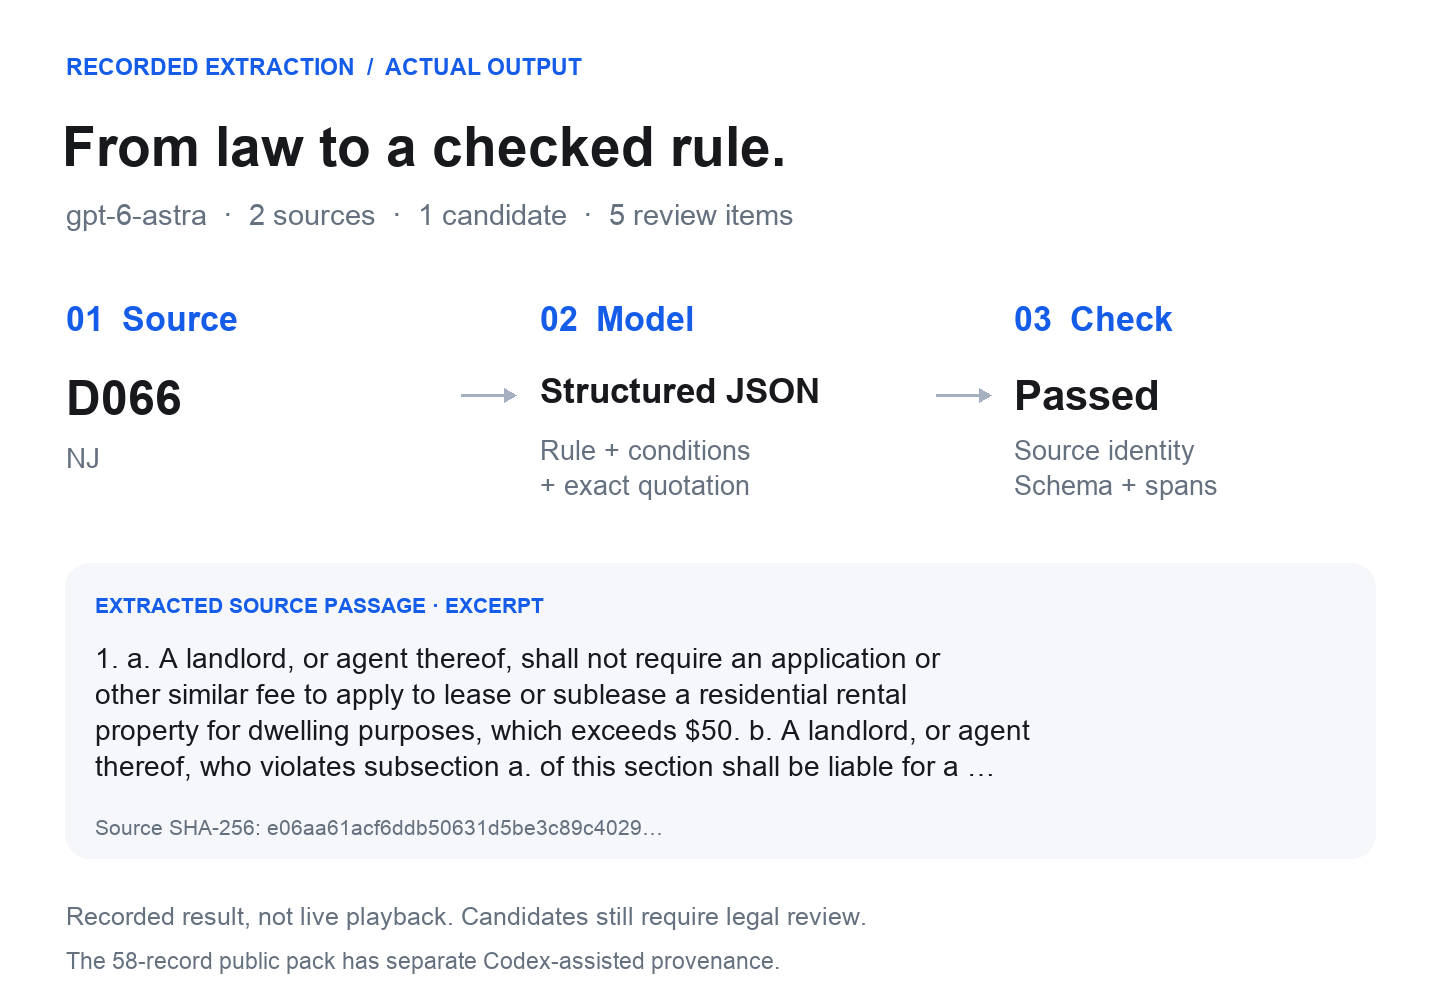
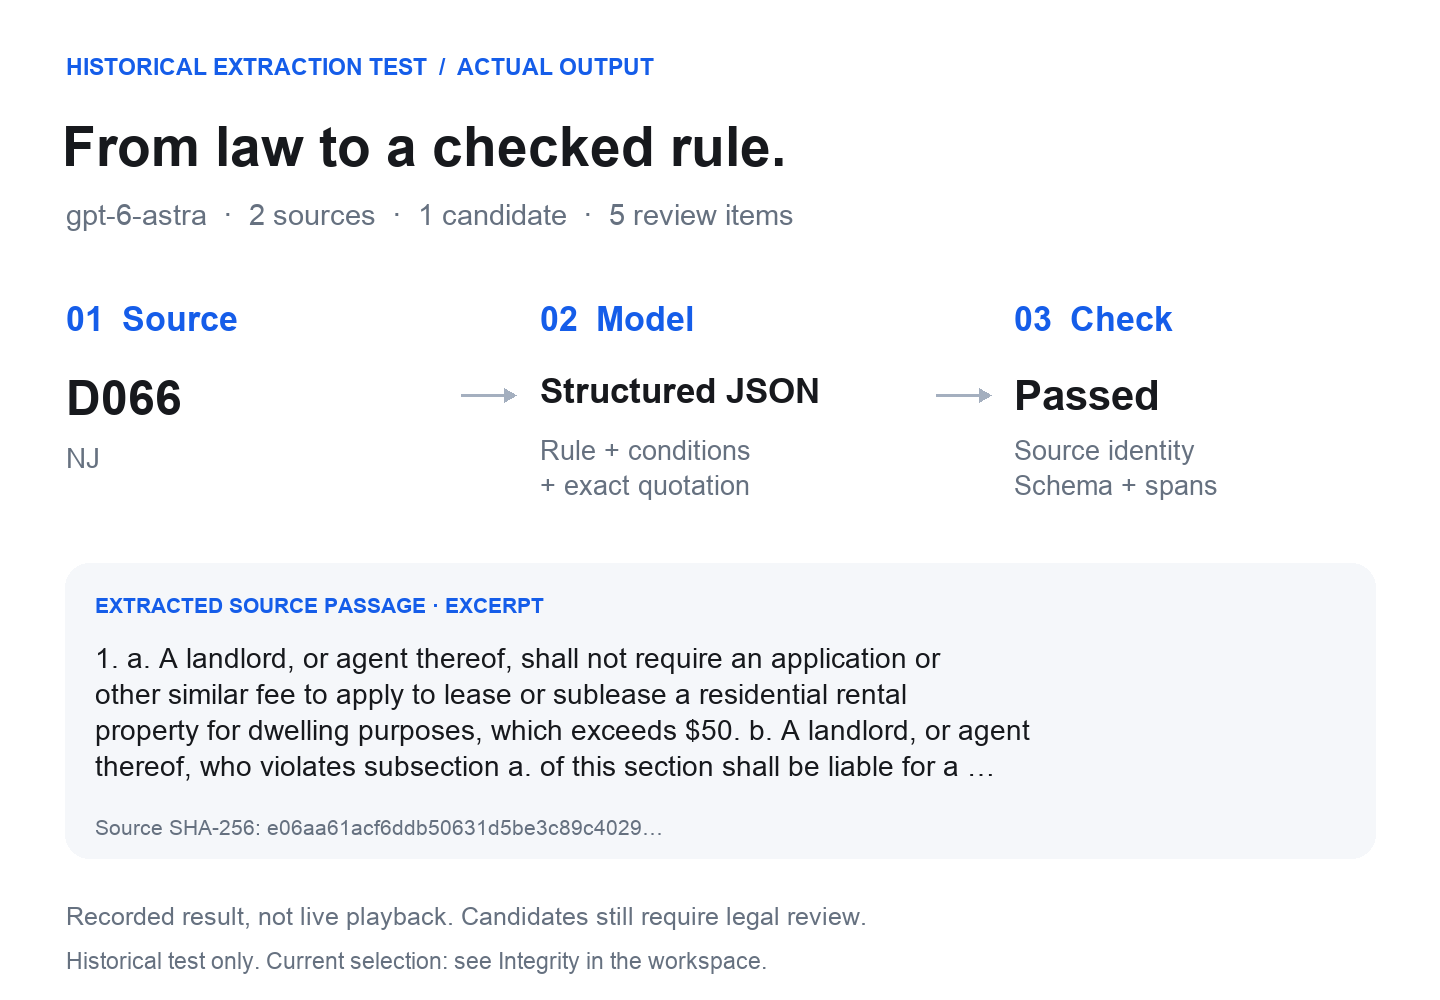
Clarify historical extraction receipt and link current provenance

Changed region(s): [[0.0625, 0.93, 0.5, 0.992], [0.0625, 0.062, 0.4375, 0.093]]

diff --git a/scripts/render_extraction_receipt.py b/scripts/render_extraction_receipt.py
@@ -26,7 +26,7 @@ def put(x, y, text, size=30, color=INK, bold=False, width=1300):
     for line in text.splitlines():
         assert d.textlength(line, font=f) <= width, line
     d.multiline_text((x,y), text, font=f, fill=color, spacing=10)
-put(66, 54, 'RECORDED EXTRACTION  /  ACTUAL OUTPUT', 23, BLUE, True)
+put(66, 54, 'HISTORICAL EXTRACTION TEST  /  ACTUAL OUTPUT', 23, BLUE, True)
 put(62, 116, 'From law to a checked rule.', 55, bold=True)
 candidate_noun = 'candidate' if len(pack['rules']) == 1 else 'candidates'
 put(66, 198, f'{receipt["model"]}  ·  {len(receipt["sources"])} sources  ·  {len(pack["rules"])} {candidate_noun}  ·  {len(pack["review"])} review items', 29, MUTED)
@@ -49,7 +49,7 @@ if len(lines) > 4: lines = lines[:4]; lines[-1] = lines[-1].rstrip(' .') + ' …
 put(95, 642, '\n'.join(lines), 28, width=1220)
 put(95, 815, 'Source SHA-256: ' + run_source['source_sha256'][:32] + '…', 21, MUTED)
 put(66, 902, 'Recorded result, not live playback. Candidates still require legal review.', 25, MUTED)
-put(66, 948, 'The 58-record public pack has separate Codex-assisted provenance.', 23, MUTED)
+put(66, 948, 'Historical test only. Current selection: see Integrity in the workspace.', 23, MUTED)
 out = ROOT / 'media/extraction-receipt.png'
 im.save(out)
 print(f'Created {out.name} from the recorded run; {len(pack["rules"])} candidates.')
